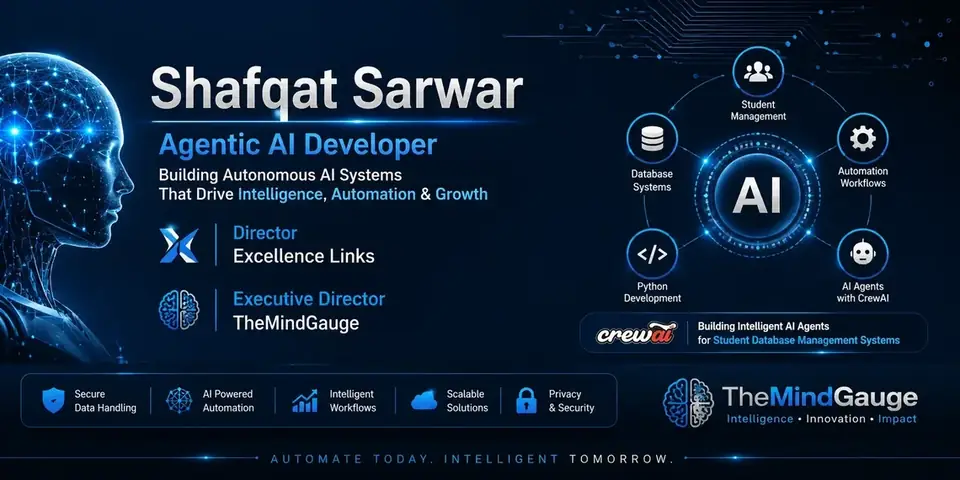
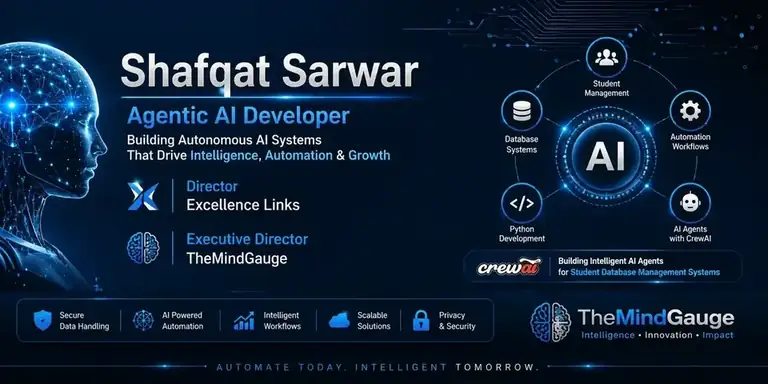
Eliminate CLS layout shift on hero background image, optimize image dimensions, and fix forced JS reflows

diff --git a/index.html b/index.html
@@ -2222,7 +2222,7 @@
     <!-- ═══ HERO ═══ -->
     <section class="hero">
       <div class="hero-bg">
-        <img src="/linked-in-banner.webp" alt="ExcellenceLinks Agentic AI Solutions" fetchpriority="high">
+        <img src="/linked-in-banner.webp" alt="" aria-hidden="true" fetchpriority="high" style="position:absolute;top:0;left:0;width:100%;height:100%;object-fit:cover;pointer-events:none;">
       </div>
       <div class="wrap hero-grid">
         <div class="rv">
@@ -2803,7 +2803,7 @@
     document.querySelectorAll('.stat-num[data-to]').forEach(el => cObs.observe(el));
 
     const bObs = new IntersectionObserver(entries => {
-      entries.forEach(e => { if (!e.isIntersecting) return; e.target.querySelectorAll('.skill-fill[data-w]').forEach(b => { b.style.width = b.dataset.w + '%'; }); bObs.unobserve(e.target); });
+      entries.forEach(e => { if (!e.isIntersecting) return; requestAnimationFrame(() => { e.target.querySelectorAll('.skill-fill[data-w]').forEach(b => { b.style.width = b.dataset.w + '%'; }); }); bObs.unobserve(e.target); });
     }, { threshold: 0.25 });
     document.querySelectorAll('.skill-bars').forEach(el => bObs.observe(el));
 

diff --git a/public/index.html b/public/index.html
@@ -2222,7 +2222,7 @@
     <!-- ═══ HERO ═══ -->
     <section class="hero">
       <div class="hero-bg">
-        <img src="/linked-in-banner.webp" alt="ExcellenceLinks Agentic AI Solutions" fetchpriority="high">
+        <img src="/linked-in-banner.webp" alt="" aria-hidden="true" fetchpriority="high" style="position:absolute;top:0;left:0;width:100%;height:100%;object-fit:cover;pointer-events:none;">
       </div>
       <div class="wrap hero-grid">
         <div class="rv">
@@ -2803,7 +2803,7 @@
     document.querySelectorAll('.stat-num[data-to]').forEach(el => cObs.observe(el));
 
     const bObs = new IntersectionObserver(entries => {
-      entries.forEach(e => { if (!e.isIntersecting) return; e.target.querySelectorAll('.skill-fill[data-w]').forEach(b => { b.style.width = b.dataset.w + '%'; }); bObs.unobserve(e.target); });
+      entries.forEach(e => { if (!e.isIntersecting) return; requestAnimationFrame(() => { e.target.querySelectorAll('.skill-fill[data-w]').forEach(b => { b.style.width = b.dataset.w + '%'; }); }); bObs.unobserve(e.target); });
     }, { threshold: 0.25 });
     document.querySelectorAll('.skill-bars').forEach(el => bObs.observe(el));
 
